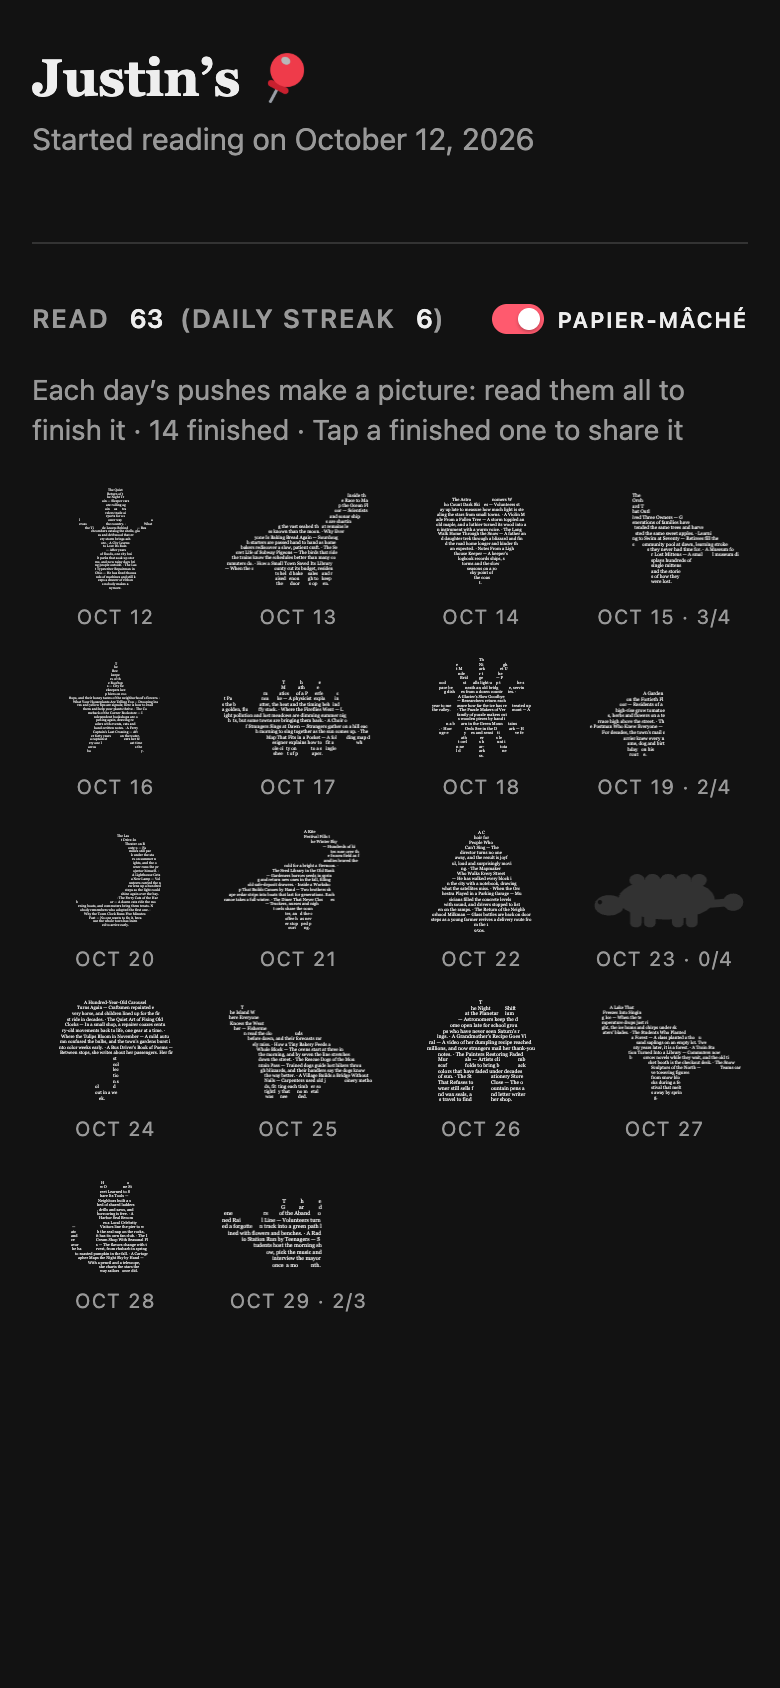
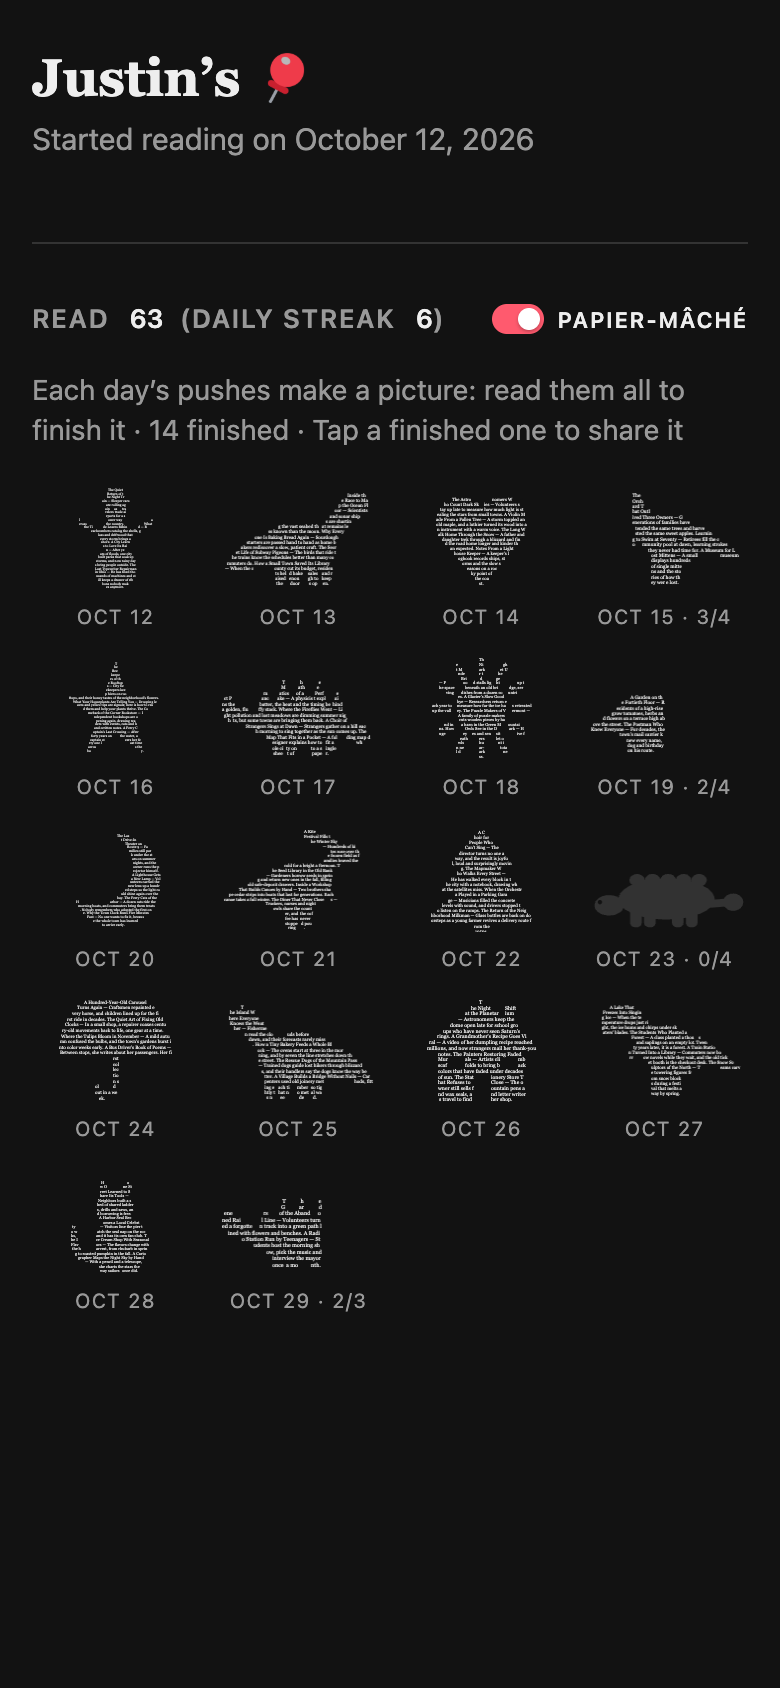
Daily pictures: no middle dot between articles; the period ending each abstract separates them

diff --git a/src/pushpin/cards.py b/src/pushpin/cards.py
@@ -748,7 +748,7 @@ function textDino(day, kind) {
   const r = rng(day.seed + ':share');
   const parts = day.parts.map(p => ({title: p.title.replace(/\\s+/g, ''), abstract: p.words.join('')}));
   const end = parts.length ? parts[parts.length - 1].abstract || parts[parts.length - 1].title : '';
-  const letters = parts.map(p => p.title + (p.abstract ? '—' + p.abstract : '')).join('·') + (/[.!?]["”’]?$/.test(end) ? '' : '.');
+  const letters = parts.map(p => p.title + (p.abstract ? '—' + p.abstract : '')).join('') + (/[.!?]["”’]?$/.test(end) ? '' : '.');
   // grids the letters fill, leaving at most part of the last line blank
   const fits = []; let first = 0, roomy = null;
   for (let cols = 10; cols <= 200 && !(first && cols > first + 3); cols++)
@@ -802,7 +802,7 @@ function dayText(d) {
   if (last && last.words.length) { if (!/[.!?]["”’]?$/.test(last.words[last.words.length - 1])) last.words[last.words.length - 1] += '.'; }
   else if (last && !/[.!?]["”’]?$/.test(last.title)) last.title += '.';
   // the picture on the profile: every title with its whole abstract (the shared text drops words to fit)
-  const text = parts.length ? parts.map(p => p.words.length ? p.title + ' — ' + p.words.join(' ') : p.title).join(' · ') : '·';
+  const text = parts.length ? parts.map(p => p.words.length ? p.title + ' — ' + p.words.join(' ') : p.title).join(' ') : '';
   return {text, flip, parts, seed};
 }
 const MONTHS = ['Jan', 'Feb', 'Mar', 'Apr', 'May', 'Jun', 'Jul', 'Aug', 'Sep', 'Oct', 'Nov', 'Dec'];

diff --git a/docs/demo-screens.md b/docs/demo-screens.md
@@ -60,23 +60,23 @@ The demo's snowman and Brontosaurus, each made of the four articles read that da
               airportsfora
                slowerwaya
 cros             sthecou             ntr
-  y.·Wha      ttheTideLeave      sBehi
-      nd—Be achcomberscatalo gthesh
-         ells,glassanddriftwood
-           thateverystormbrin
-            gsashore.·ACityL
-             earnstoLoveItsR
-              ain—Afteryea
-             rsoffloods,one
-           citybuiltparksthat
-         soakupstorms,andnowrai
-         nydaysbringpeopleoutsi
-         de.·TheLastTypewriterRe
-         pairmaninOhio—Hehasfixe
-         dthousandsofmachinesan
-          dstillkeepsadrawerof
-            ribbonsnobodymake
-              sanymore.
+  y.What      theTideLeaves      Behin
+      d—Bea chcomberscatalog theshe
+         lls,glassanddriftwoodt
+           hateverystormbring
+            sashore.ACityLea
+             rnstoLoveItsRai
+              n—Afteryears
+             offloods,oneci
+           tybuiltparksthatso
+         akupstorms,andnowrainy
+         daysbringpeopleoutside
+         .TheLastTypewriterRepai
+         rmaninOhio—Hehasfixedth
+         ousandsofmachinesandst
+          illkeepsadrawerofrib
+            bonsnobodymakesan
+              ymore.
 ```
 
 ```
@@ -87,17 +87,17 @@ cros             sthecou             ntr
                                        ndsonarshi
                                       psarechart
                     ingthevastseabedthatremain
-                slessknownthanthemoon.·WhyEve
-            ryoneIsBakingBreadAgain—Sourdou
-         ghstartersarepassedhandtohandasho
-       mebakersrediscoveraslow,patientcraf
-     t.·TheSecretLifeofSubwayPigeons—Thebi
-   rdsthatridethetrainsknowtheschedulesbe
-  tterthanmanycommutersdo.·HowaSmallTownS
-avedItsLibrary—Whenthecountycutitsbudget,
-                   residentsheldbak esale
-                   sandraised  enou ghtok
-                   eept hedoo  rsop en.
+                slessknownthanthemoon.WhyEver
+            yoneIsBakingBreadAgain—Sourdoug
+         hstartersarepassedhandtohandashom
+       ebakersrediscoveraslow,patientcraft
+     .TheSecretLifeofSubwayPigeons—Thebird
+   sthatridethetrainsknowtheschedulesbett
+  erthanmanycommutersdo.HowaSmallTownSave
+dItsLibrary—Whenthecountycutitsbudget,res
+                   identsheldbakesa lesan
+                   draisedeno  ught okeep
+                   thed oorso  pen.
 ```
 
 ## Before the first push: the welcome page
